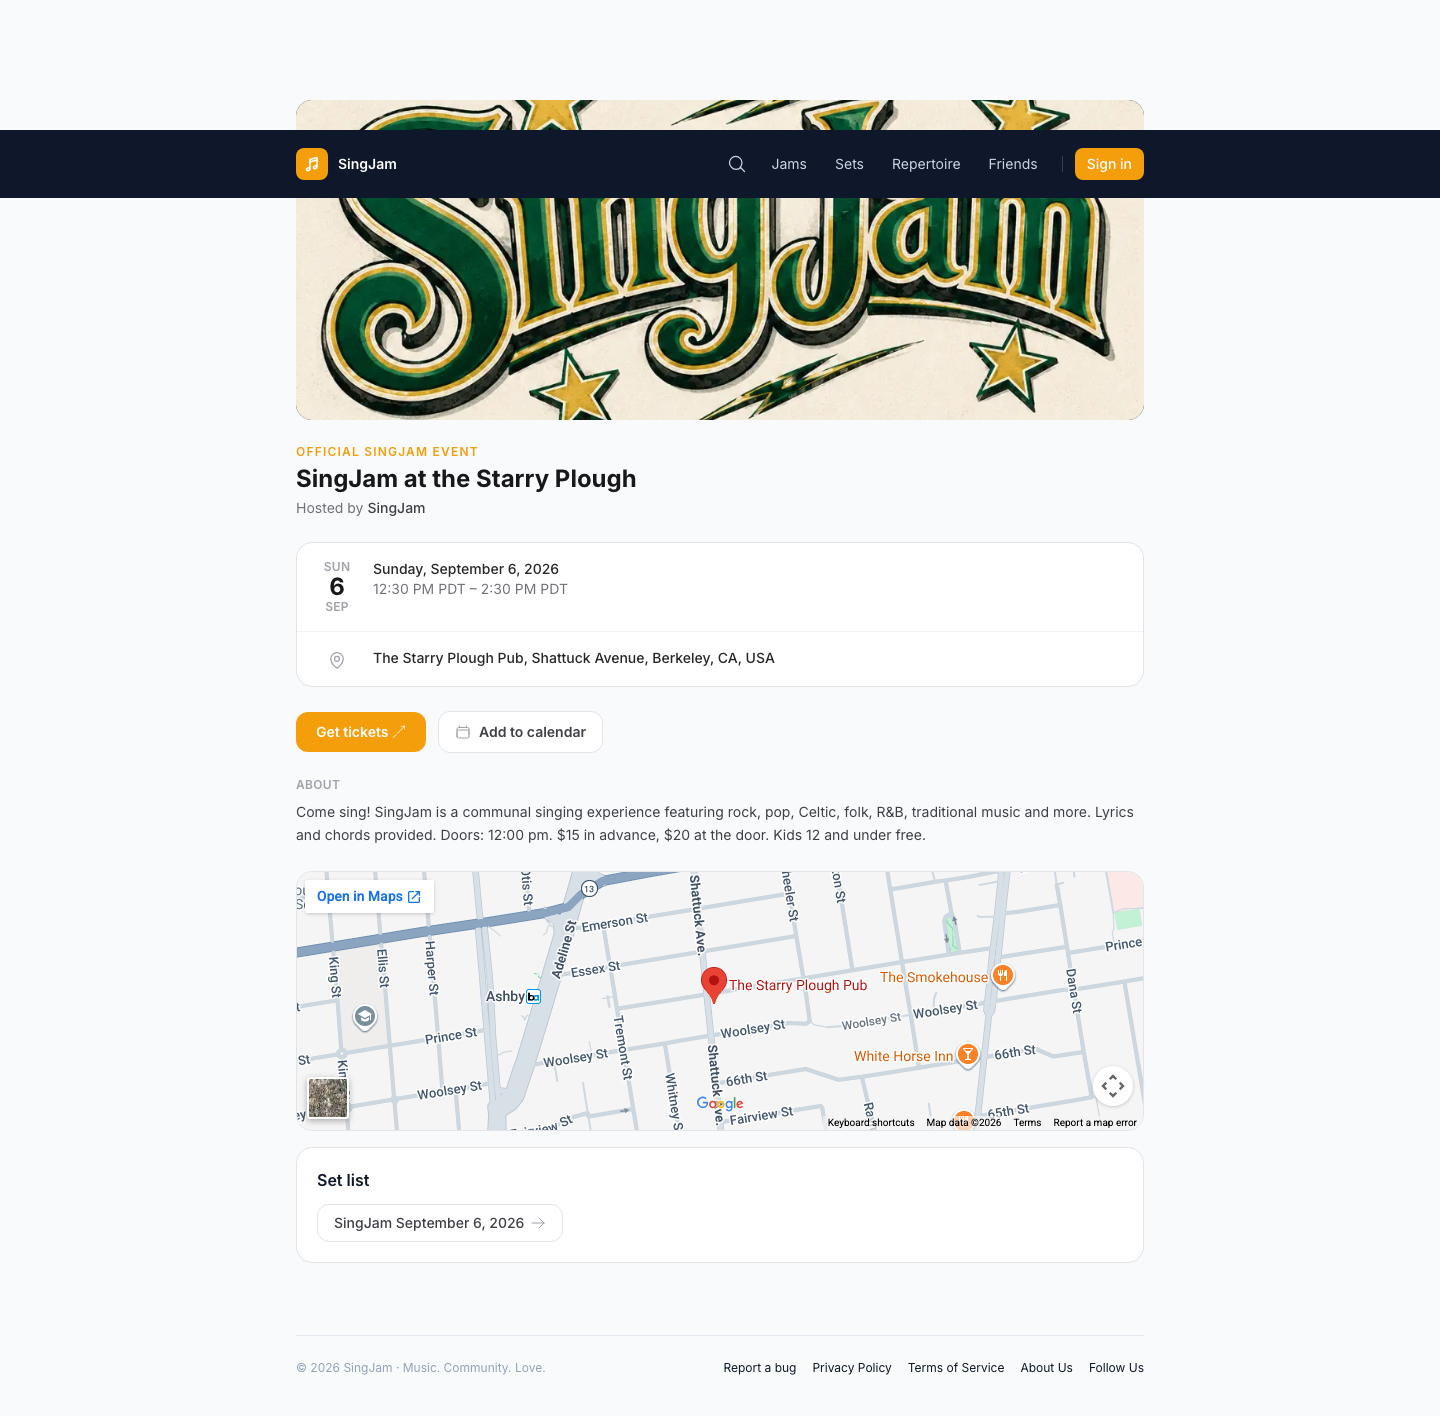
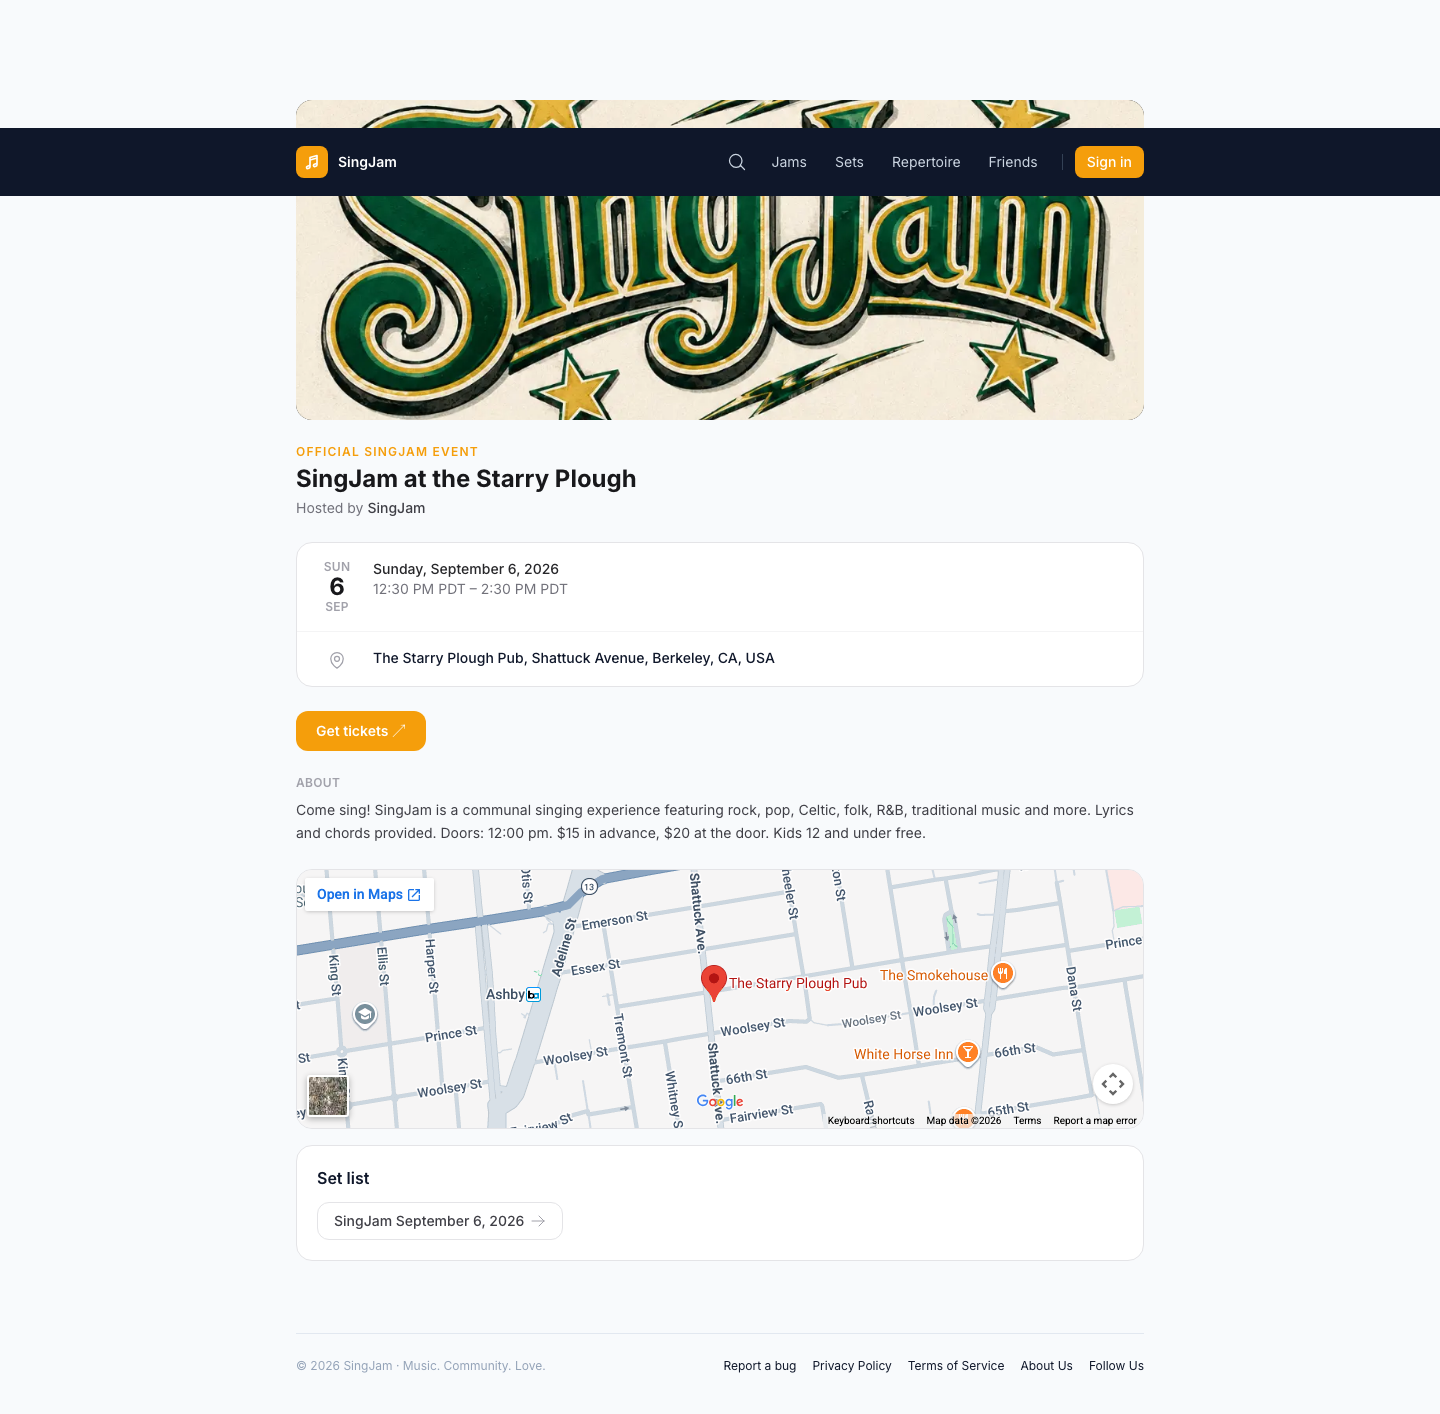
feat: tickets first, then the description, then the map
Ben's call on the ticketed page: the tier list and its prices take the first
screenful, the description follows, and the map goes below that. Still inside
Sherri's original ask, which offered tickets "either just above or just below"
the description.

The description moves out of JamCard the way the map already had — exported as
JamDescription, with one ticketPanelFollows prop replacing the belowDescription
slot, since both placements are driven by the same condition. The map is back
to full width at its default 260px, identical to every non-ticketed event's.

Note this gives back the blank column beside the narrow ticket panel that the
map had been filling.

Fixes a 2px regression the venue link introduced along the way: LocationText
had replaced a block <p> with an inline <a>, which laid out differently and
pushed every non-ticketed page down (4px on a community jam, 2px on a private
one). The <p> now stays and the anchor sits inside it — which also keeps the
click target on the address rather than the whole row.

Fingerprint diff against main: community and private byte-identical again;
the externally-ticketed event differs only by its intended changes, the guest
list gone and 2px up from losing the taller calendar button.

diff --git a/apps/web/components/JamView.tsx b/apps/web/components/JamView.tsx
@@ -2,7 +2,7 @@
 
 import { useState } from "react";
 import Link from "next/link";
-import JamCard, { JamMap, type JamCardData } from "@/components/JamCard";
+import JamCard, { JamDescription, JamMap, type JamCardData } from "@/components/JamCard";
 import JamRsvpButton from "@/components/JamRsvpButton";
 import JamInvitePanel, { type NewInviteEntry } from "@/components/JamInvitePanel";
 import JamInviteResponse from "@/components/JamInviteResponse";
@@ -89,6 +89,11 @@ export default function JamView({
   const attendanceLandsHere = !isOfficial || hasTicketTiers;
   const showAttendees = attendanceLandsHere || attendingCount > 0;
 
+  // Whether the ticket panel renders. Drives three placements: the panel row
+  // itself, the map (beside it rather than in the card), and the description
+  // (below it rather than above).
+  const showTicketPanel = isOfficial && hasTicketTiers;
+
   // Either route to a ticket counts: on our own tiers or off to someone else's
   // checkout, you still don't have one yet.
   const sellsTickets = hasTicketTiers || !!jamCardData.tickets_url;
@@ -110,13 +115,11 @@ export default function JamView({
       <JamCard
         jam={jamCardData}
         sellsTickets={sellsTickets}
-        // No ticket column to sit beside — a community or private jam, or an
-        // official event selling through tickets_url. The map stays inside the
-        // card exactly where it has always been, on the card's own spacing:
-        // there is no purchase path here for it to have been in the way of.
-        belowDescription={
-          !(isOfficial && hasTicketTiers) ? <JamMap jam={jamCardData} /> : undefined
-        }
+        // When no panel follows — a community or private jam, or an official
+        // event selling through tickets_url — the description and the map both
+        // stay inside the card exactly where they have always been: there is no
+        // purchase path here for either of them to have been in the way of.
+        ticketPanelFollows={showTicketPanel}
         actions={
           hasActions ? (
           <>
@@ -145,32 +148,20 @@ export default function JamView({
           ) : undefined
         }
       />
-      {/* Official events sell tickets instead of taking RSVPs — showRsvp is false
-          for them. Directly under the description on purpose: read the pitch,
-          then buy.
-
-          The map rides along on the right at sm and up. The ticket column is
-          deliberately narrow, which left most of the page width empty next to
-          it, and "where" is the other thing someone weighs while deciding —
-          so it earns the space better than whitespace does. Below sm the two
-          stack, tickets first. */}
-      {isOfficial && hasTicketTiers && (
-        <div className="flex flex-col gap-4 sm:flex-row sm:items-stretch">
+      {/* Official events sell tickets instead of taking RSVPs — showRsvp is
+          false for them. The panel sits directly under the date/location strip
+          so the tier list and its prices get the first screenful; then the
+          description, then the map, full width like every other event's. */}
+      {showTicketPanel && (
+        <>
           <TicketPurchasePanel
             jamId={jamId}
             isSignedIn={!!userId}
             timezone={jamCardData.timezone}
           />
-          {/* mt-8 clears the "Tickets" heading (20px line-height + the panel's
-              12px space-y-3), so the map frame starts level with the first tier
-              rather than with the heading that labels only the left column.
-              items-stretch then takes the margin off the height, so the frame
-              still ends level with the Buy button. */}
-          <JamMap
-            jam={jamCardData}
-            className="h-52 w-full sm:mt-8 sm:h-auto sm:min-h-52 sm:flex-1"
-          />
-        </div>
+          <JamDescription jam={jamCardData} />
+          <JamMap jam={jamCardData} />
+        </>
       )}
       {hasFullAccess && <JamSetList jamId={jamId} jamName={jam.name} canManage={canManage} />}
       {/* Official events that sell here show who's going too. Ticket buyers get

diff --git a/apps/web/components/JamCard.tsx b/apps/web/components/JamCard.tsx
@@ -77,32 +77,57 @@ export function JamMap({ jam, className = "h-[260px]" }: { jam: JamCardData; cla
 }
 
 /**
+ * The event description. Lives in the card normally, but on a ticketed event
+ * JamView renders it *below* the ticket panel — Sherri asked for the tickets
+ * either side of it and Ben picked above, which puts the price list in the
+ * first screenful and leaves the detail for whoever wants it.
+ */
+export function JamDescription({ jam }: { jam: JamCardData }) {
+  if (!jam.notes) return null;
+  return (
+    <div className="space-y-2">
+      <h2 className="text-xs font-semibold uppercase tracking-wide text-zinc-400">About</h2>
+      <p className="text-sm text-zinc-700 whitespace-pre-wrap leading-relaxed">{jam.notes}</p>
+    </div>
+  );
+}
+
+/**
  * The venue line. A link when we have somewhere to point at, plain text
  * otherwise (a TBD venue), so the styling is identical either way and only the
  * affordance appears.
  */
 function LocationText({ query, children }: { query: string | null; children: ReactNode }) {
-  const className = "text-sm font-medium text-zinc-800";
-  if (!query) return <p className={className}>{children}</p>;
+  // The <p> stays put in both branches and the anchor goes *inside* it. Making
+  // the anchor itself the block element shifted every non-ticketed page down a
+  // couple of pixels (an inline box lays out differently from a block one), and
+  // a block anchor would also make the whole row width clickable rather than
+  // just the address.
   return (
-    <a
-      href={query}
-      target="_blank"
-      rel="noopener noreferrer"
-      // Opens a new tab, which a screen reader has no other way to know.
-      aria-label={`Open ${typeof children === "string" ? children : "this location"} in Google Maps (new tab)`}
-      className={`${className} hover:underline`}
-    >
-      {children}
-    </a>
+    <p className="text-sm font-medium text-zinc-800">
+      {query ? (
+        <a
+          href={query}
+          target="_blank"
+          rel="noopener noreferrer"
+          // Opens a new tab, which a screen reader has no other way to know.
+          aria-label={`Open ${typeof children === "string" ? children : "this location"} in Google Maps (new tab)`}
+          className="hover:underline"
+        >
+          {children}
+        </a>
+      ) : (
+        children
+      )}
+    </p>
   );
 }
 
 export default function JamCard({
   jam,
   actions,
-  belowDescription,
   sellsTickets = false,
+  ticketPanelFollows = false,
 }: {
   jam: JamCardData;
   actions?: ReactNode;
@@ -114,11 +139,11 @@ export default function JamCard({
    */
   sellsTickets?: boolean;
   /**
-   * Sits inside the card under the description, on the card's own spacing.
-   * This is where the map used to be hard-coded, and where it still goes for
-   * an event with no ticket column to sit beside.
+   * A ticket panel renders directly after this card, so the description and
+   * the map both move out to sit around it. Everything else keeps them here,
+   * inside the card, on the card's own spacing.
    */
-  belowDescription?: ReactNode;
+  ticketPanelFollows?: boolean;
 }) {
   const isOfficial = jam.visibility === "official";
   const tags = [...jam.genres, ...jam.themes];
@@ -287,16 +312,15 @@ export default function JamCard({
           </div>
         )}
 
-        {/* Description. Last thing in the card on a ticketed event, so the
-            ticket panel follows it directly. */}
-        {jam.notes && (
-          <div className="space-y-2">
-            <h2 className="text-xs font-semibold uppercase tracking-wide text-zinc-400">About</h2>
-            <p className="text-sm text-zinc-700 whitespace-pre-wrap leading-relaxed">{jam.notes}</p>
-          </div>
+        {/* On a ticketed event both of these move out: the description goes
+            below the ticket panel and the map goes beside it. JamView places
+            them. */}
+        {!ticketPanelFollows && (
+          <>
+            <JamDescription jam={jam} />
+            <JamMap jam={jam} />
+          </>
         )}
-
-        {belowDescription}
       </div>
     </div>
   );

diff --git a/apps/web/components/TicketPurchasePanel.tsx b/apps/web/components/TicketPurchasePanel.tsx
@@ -31,9 +31,8 @@ const money = (cents: number, currency: string) =>
 
 // Every tier row and the button live in one narrow column rather than the
 // page's full 896px: a full-width Buy button reads as a banner, not a button.
-// Full width on a phone, a fixed 384px from sm up so the map beside it gets a
-// predictable remainder instead of both fighting over the row.
-const COLUMN = "w-full sm:w-96 sm:shrink-0";
+// Full width on a phone, a fixed 384px from sm up.
+const COLUMN = "w-full sm:w-96";
 
 
 // Buyers can't take the whole allocation in one order by accident, and it keeps
